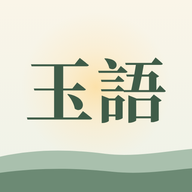
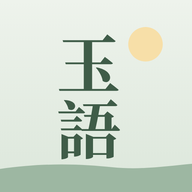
桌面圖示改為「玉語」直排版
Claude-Session: https://claude.ai/code/session_01H2Mwi4XXY8JHze7fFQYyjG

diff --git a/shengxun/56/index.html b/shengxun/56/index.html
@@ -17,8 +17,8 @@
 <meta property="og:image:height" content="630">
 <meta property="og:url" content="https://sammy5688.github.io/AI-/shengxun/56/">
 <meta name="twitter:card" content="summary_large_image">
-<link rel="icon" type="image/png" href="icon-192.png?v=2">
-<link rel="apple-touch-icon" href="icon-180.png?v=2">
+<link rel="icon" type="image/png" href="icon-192.png?v=3">
+<link rel="apple-touch-icon" href="icon-180.png?v=3">
 <link rel="manifest" href="manifest.webmanifest">
 <meta name="apple-mobile-web-app-title" content="玉語心晨">
 <meta name="color-scheme" content="light dark">
